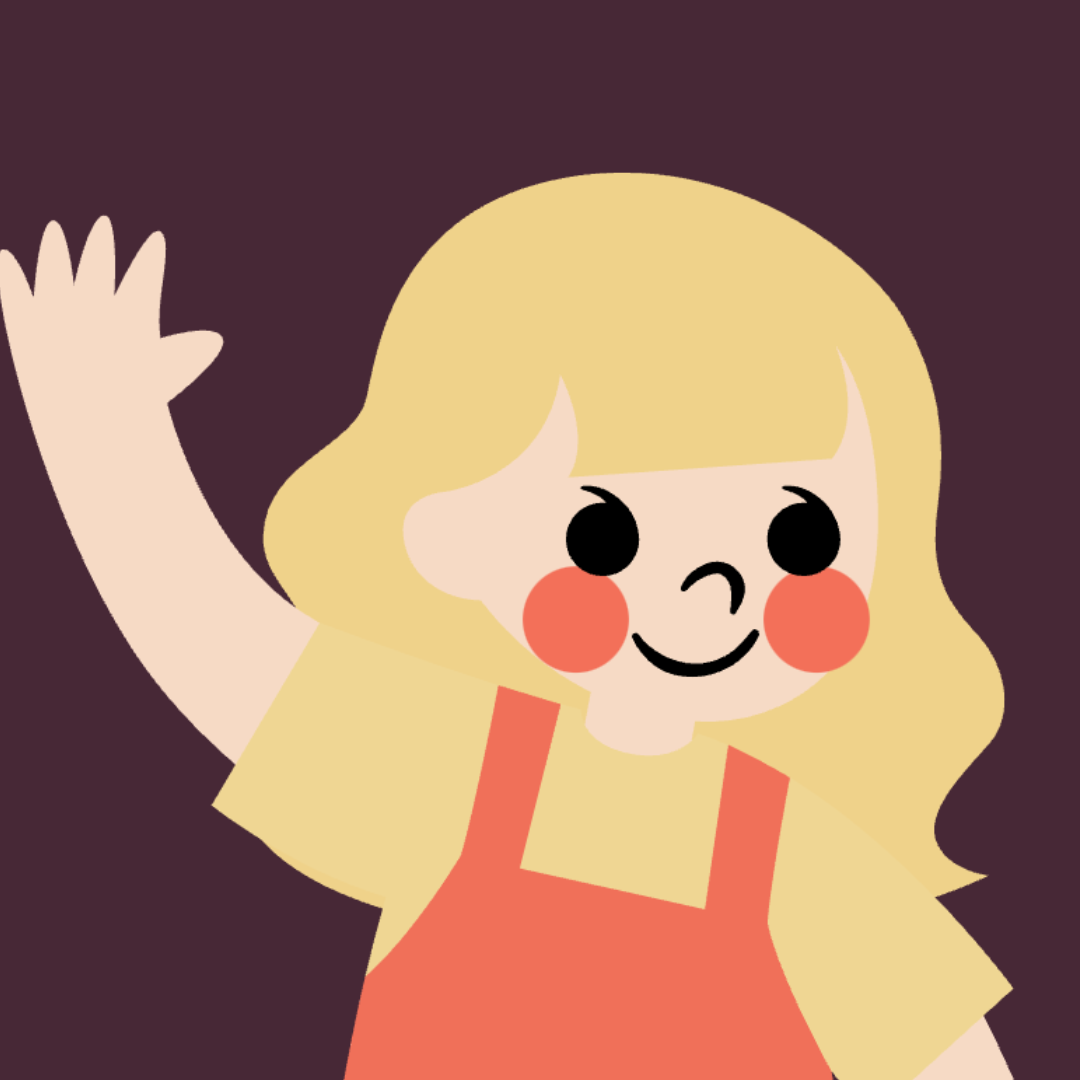
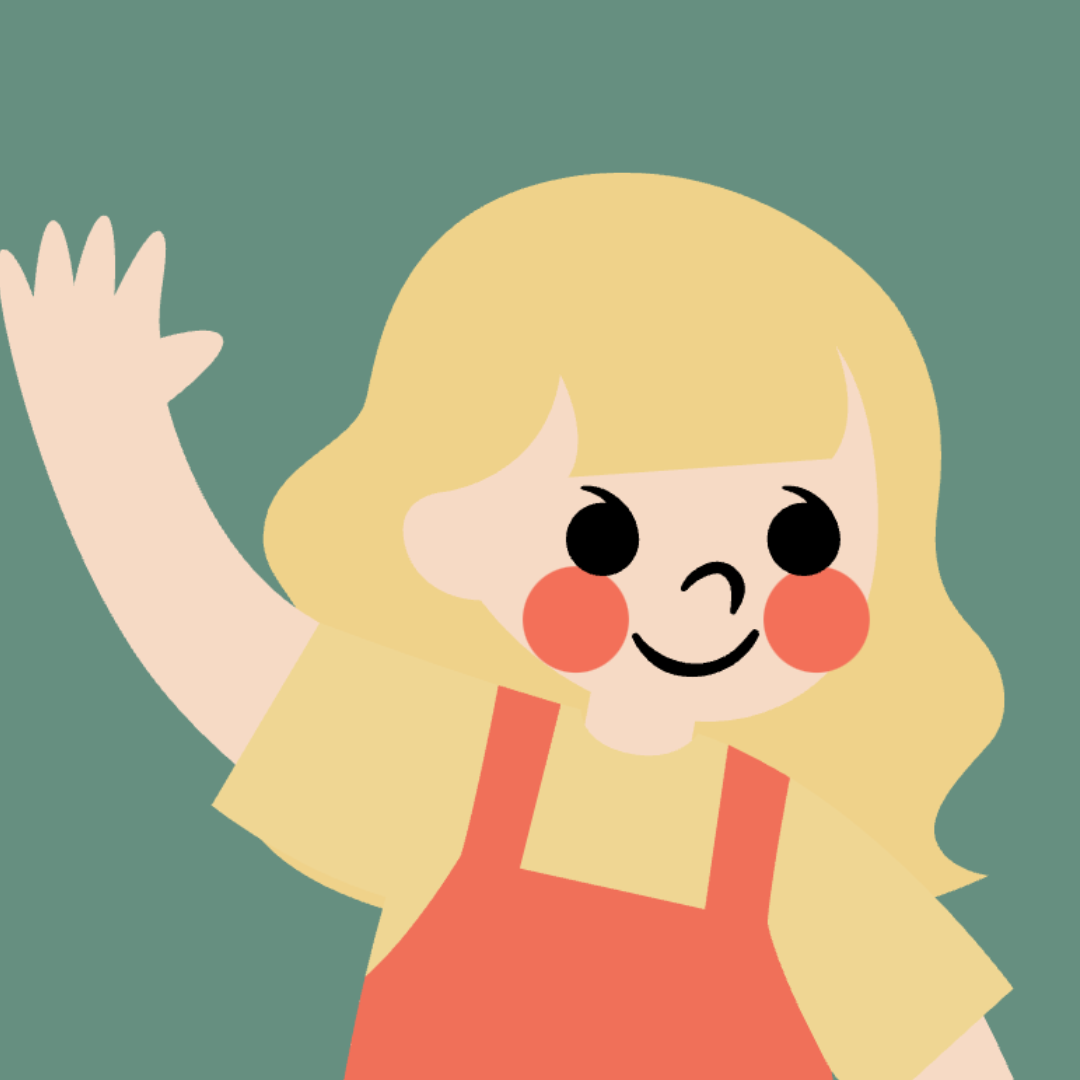
Upravena stránka o projektu. Upravena stránka o nás, ale ještě není dodělaná.

diff --git a/aboutUs.html b/aboutUs.html
@@ -31,48 +31,49 @@
 
       <main>
         <div class="about-us">
-          <h1>About Us</h1>
-          <div class="about-us--medailonky">
             <div class="about-us--title">
-              <h2 class="about-us--title--name">Denisa</h2>
               <img
                 class="about-us--title--img"
                 src="./img/deni.png"
                 alt="deni avatar"
               />
-              <p>
-                Ta chce práci
-                <br/>
-                Lorem ipsum dolor sit amet consectetur adipisicing elit. Nobis
-                unde, alias voluptatibus, tempore dolorum eligendi soluta vitae
-                porro ipsum quibusdam laboriosam dolores! Ex ducimus accusamus
-                omnis. Esse voluptate cupiditate eveniet voluptatum quidem
-                accusamus similique omnis eos, soluta rem. Corporis ratione
-                reprehenderit at pariatur quasi illo deleniti cumque alias
-                consequatur eos?
-              </p>
+              <div class="about-us--title--text">
+                <h2 class="about-us--title--name">Denisa</h2>
+                <h3>This one wants a job.</h3>
+                <p>
+                  Lorem ipsum dolor sit amet consectetur adipisicing elit. Nobis
+                  unde, alias voluptatibus, tempore dolorum eligendi soluta
+                  vitae porro ipsum quibusdam laboriosam dolores! Ex ducimus
+                  accusamus omnis. Esse voluptate cupiditate eveniet voluptatum
+                  quidem accusamus similique omnis eos, soluta rem. Corporis
+                  ratione reprehenderit at pariatur quasi illo deleniti cumque
+                  alias consequatur eos?
+                </p>
+              </div>
             </div>
 
-            <div class="about-us--title">
-              <h2 class="about-us--title--name">Šárka</h2>
+            <div class="about-us--title about-us--title--sarka">
+
+              <div class="about-us--title--text">
+                <h2 class="about-us--title--name">Šárka</h2>
+                <h3>And this one too!</h3>
+                <p>
+                  Lorem ipsum dolor sit amet consectetur adipisicing elit. Nobis
+                  unde, alias voluptatibus, tempore dolorum eligendi soluta
+                  vitae porro ipsum quibusdam laboriosam dolores! Ex ducimus
+                  accusamus omnis. Esse voluptate cupiditate eveniet voluptatum
+                  quidem accusamus similique omnis eos, soluta rem. Corporis
+                  ratione reprehenderit at pariatur quasi illo deleniti cumque
+                  alias consequatur eos?
+                </p>
+              </div>
               <img
-                class="about-us--title--img"
-                src="./img/sarka.png"
-                alt="sarka avatar"
-              />
-              <p>
-                Tahle taky.
-                <br/>
-                Lorem ipsum dolor sit amet consectetur adipisicing elit. Nobis
-                unde, alias voluptatibus, tempore dolorum eligendi soluta vitae
-                porro ipsum quibusdam laboriosam dolores! Ex ducimus accusamus
-                omnis. Esse voluptate cupiditate eveniet voluptatum quidem
-                accusamus similique omnis eos, soluta rem. Corporis ratione
-                reprehenderit at pariatur quasi illo deleniti cumque alias
-                consequatur eos?
-              </p>
+              class="about-us--title--img"
+              src="./img/sarka.png"
+              alt="sarka avatar"
+            />
+
             </div>
-          </div>
         </div>
       </main>
 

diff --git a/style.css b/style.css
@@ -131,36 +131,37 @@ main {
   flex-direction: column;
   justify-content: center;
   align-items: center;
-}
-
-.about-us--medailonky {
-  display: flex;
-  justify-content: center;
-  background-color: #668F80;
+  margin: 10px auto 0 auto;
 }
 
 .about-us--title {
-  width: 20%;
+  width: 95%;
   display: flex;
-  justify-content: center;
-  align-items: center;
-  flex-direction: column;
-  border: dotted black 1px;
-  margin: 10px;
-  text-align: justify;
-  padding: 10px;
+  padding: 10px 10px 0;
+  text-align: right;
+  background-color: #668f80;
 }
 
 .about-us--title--name {
-  text-align: center;
   font-family: Meow Script;
   font-size: 2.5rem;
   color: #4A6670;
 }
 
 .about-us--title--img {
-  width: 100%;
+  width: 25%;
+  object-fit: contain;
 }
+
+.about-us--title--text {
+  margin: 0px 4rem 0rem 4rem;
+}
+
+.about-us--title--sarka {
+  text-align: left;
+  background-color: #a0af84;
+}
+
 
 /* About Project */
 
@@ -169,11 +170,11 @@ main {
   flex-direction: column;
   justify-content: center;
   align-items: center;
+  margin: 70px;
 }
 
 .AboutProject__title {
   max-width: 800px;
-  /* border: dotted black 1px; */
 }
 
 .about-project__container1,
@@ -185,11 +186,10 @@ main {
 }
 
 .about-project--name {
-  background-color: #A0AF84;
   width: 100%;
   text-align: center;
   font-size: 4.5rem;
-  color: #472836;
+  color: #320C40;
   font-family: Meow Script;
 }
 
@@ -203,4 +203,5 @@ main {
   width: 50%;
   height: 50%;
   text-align: justify;
+  color: #472836;
 }

diff --git a/aboutProject.html b/aboutProject.html
@@ -11,7 +11,7 @@
       rel="stylesheet"
     />
     <script type="module" src="script.js"></script>
-    <title>About the Project</title>
+    <title>About Project</title>
   </head>
 
   <body>
@@ -31,7 +31,6 @@
 
       <main>
         <div class="AboutProject">
-          <h1>O projektu</h1>
           <div class="AboutProject__title">
             <div class="about-project__container1">
               <img
@@ -43,10 +42,7 @@
             </div>
             <div class="about-project__container2">
               <p class="about__project--title">
-                Webová aplikace, která uživateli formou zábavného kvízu poradí /
-                připomene aktivity a techniky, které můžou přispět ke zlepšení
-                jeho aktuální nálady. Součástí aplikace bude několik
-                jednodušších cvičení a relaxačních metod.
+                A web application which advises / reminds the user of activities or techniques which should help them with their current mood via a fun clicking quiz. An important part of the application is also a couple of simple relaxing methods and exercises.
               </p>
               <img
                 class="about__project--noteImg"
